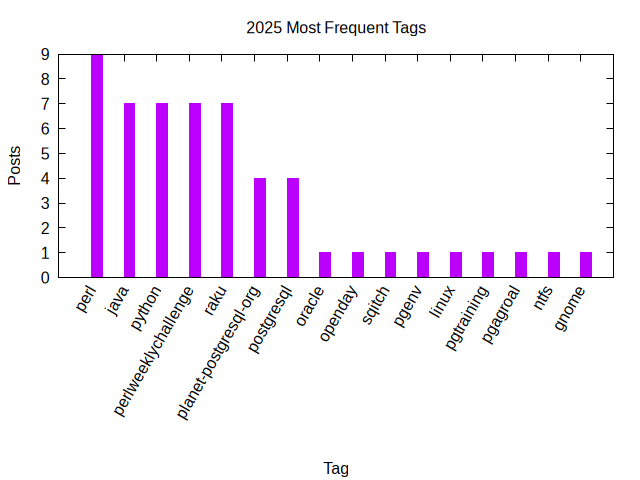
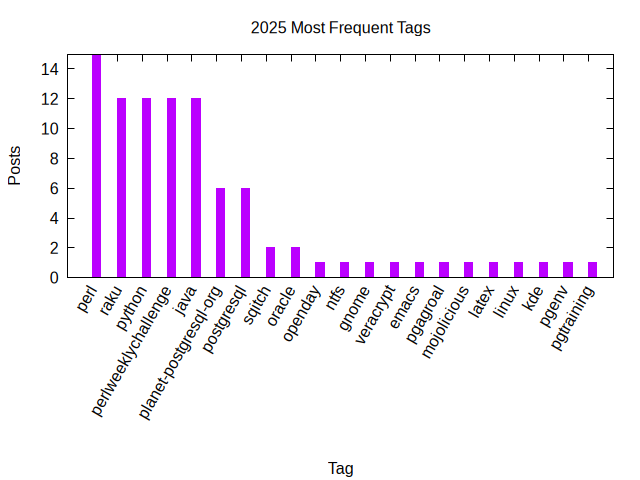
Stats update

diff --git a/_includes/stats/2025.md b/_includes/stats/2025.md
@@ -1,26 +1,31 @@
 <a name="2025" />
 ## 2025 (work in progress)
 
-**16 total posts** have been written on 2025.
-There have been *16 different tags* used, the most
+**27 total posts** have been written on 2025.
+There have been *21 different tags* used, the most
 popular being (sorted by number of posts):
  
-- *perl* (9 posts)  
-- *java* (7 posts)  
-- *python* (7 posts)  
-- *perlweeklychallenge* (7 posts)  
-- *raku* (7 posts)  
-- *planet-postgresql-org* (4 posts)  
-- *postgresql* (4 posts)  
-- *oracle* (1 posts)  
+- *perl* (15 posts)  
+- *raku* (12 posts)  
+- *python* (12 posts)  
+- *perlweeklychallenge* (12 posts)  
+- *java* (12 posts)  
+- *planet-postgresql-org* (6 posts)  
+- *postgresql* (6 posts)  
+- *sqitch* (2 posts)  
+- *oracle* (2 posts)  
 - *openday* (1 posts)  
-- *sqitch* (1 posts)  
-- *pgenv* (1 posts)  
-- *linux* (1 posts)  
-- *pgtraining* (1 posts)  
-- *pgagroal* (1 posts)  
 - *ntfs* (1 posts)  
-- *gnome* (1 posts).<br/>
+- *gnome* (1 posts)  
+- *veracrypt* (1 posts)  
+- *emacs* (1 posts)  
+- *pgagroal* (1 posts)  
+- *mojolicious* (1 posts)  
+- *latex* (1 posts)  
+- *linux* (1 posts)  
+- *kde* (1 posts)  
+- *pgenv* (1 posts)  
+- *pgtraining* (1 posts).<br/>
 <br/>
 The following is the overall 2025 post ratio by month:
 <br/>
@@ -39,7 +44,7 @@ The following is the overall 2025 post ratio by tag (showing max 30 tags):
 
 <div align="right">
 <small>
-Last generated on 2025-03-17 at 17:12
+Last generated on 2025-05-15 at 8:32
 </small>
 </div>
 
